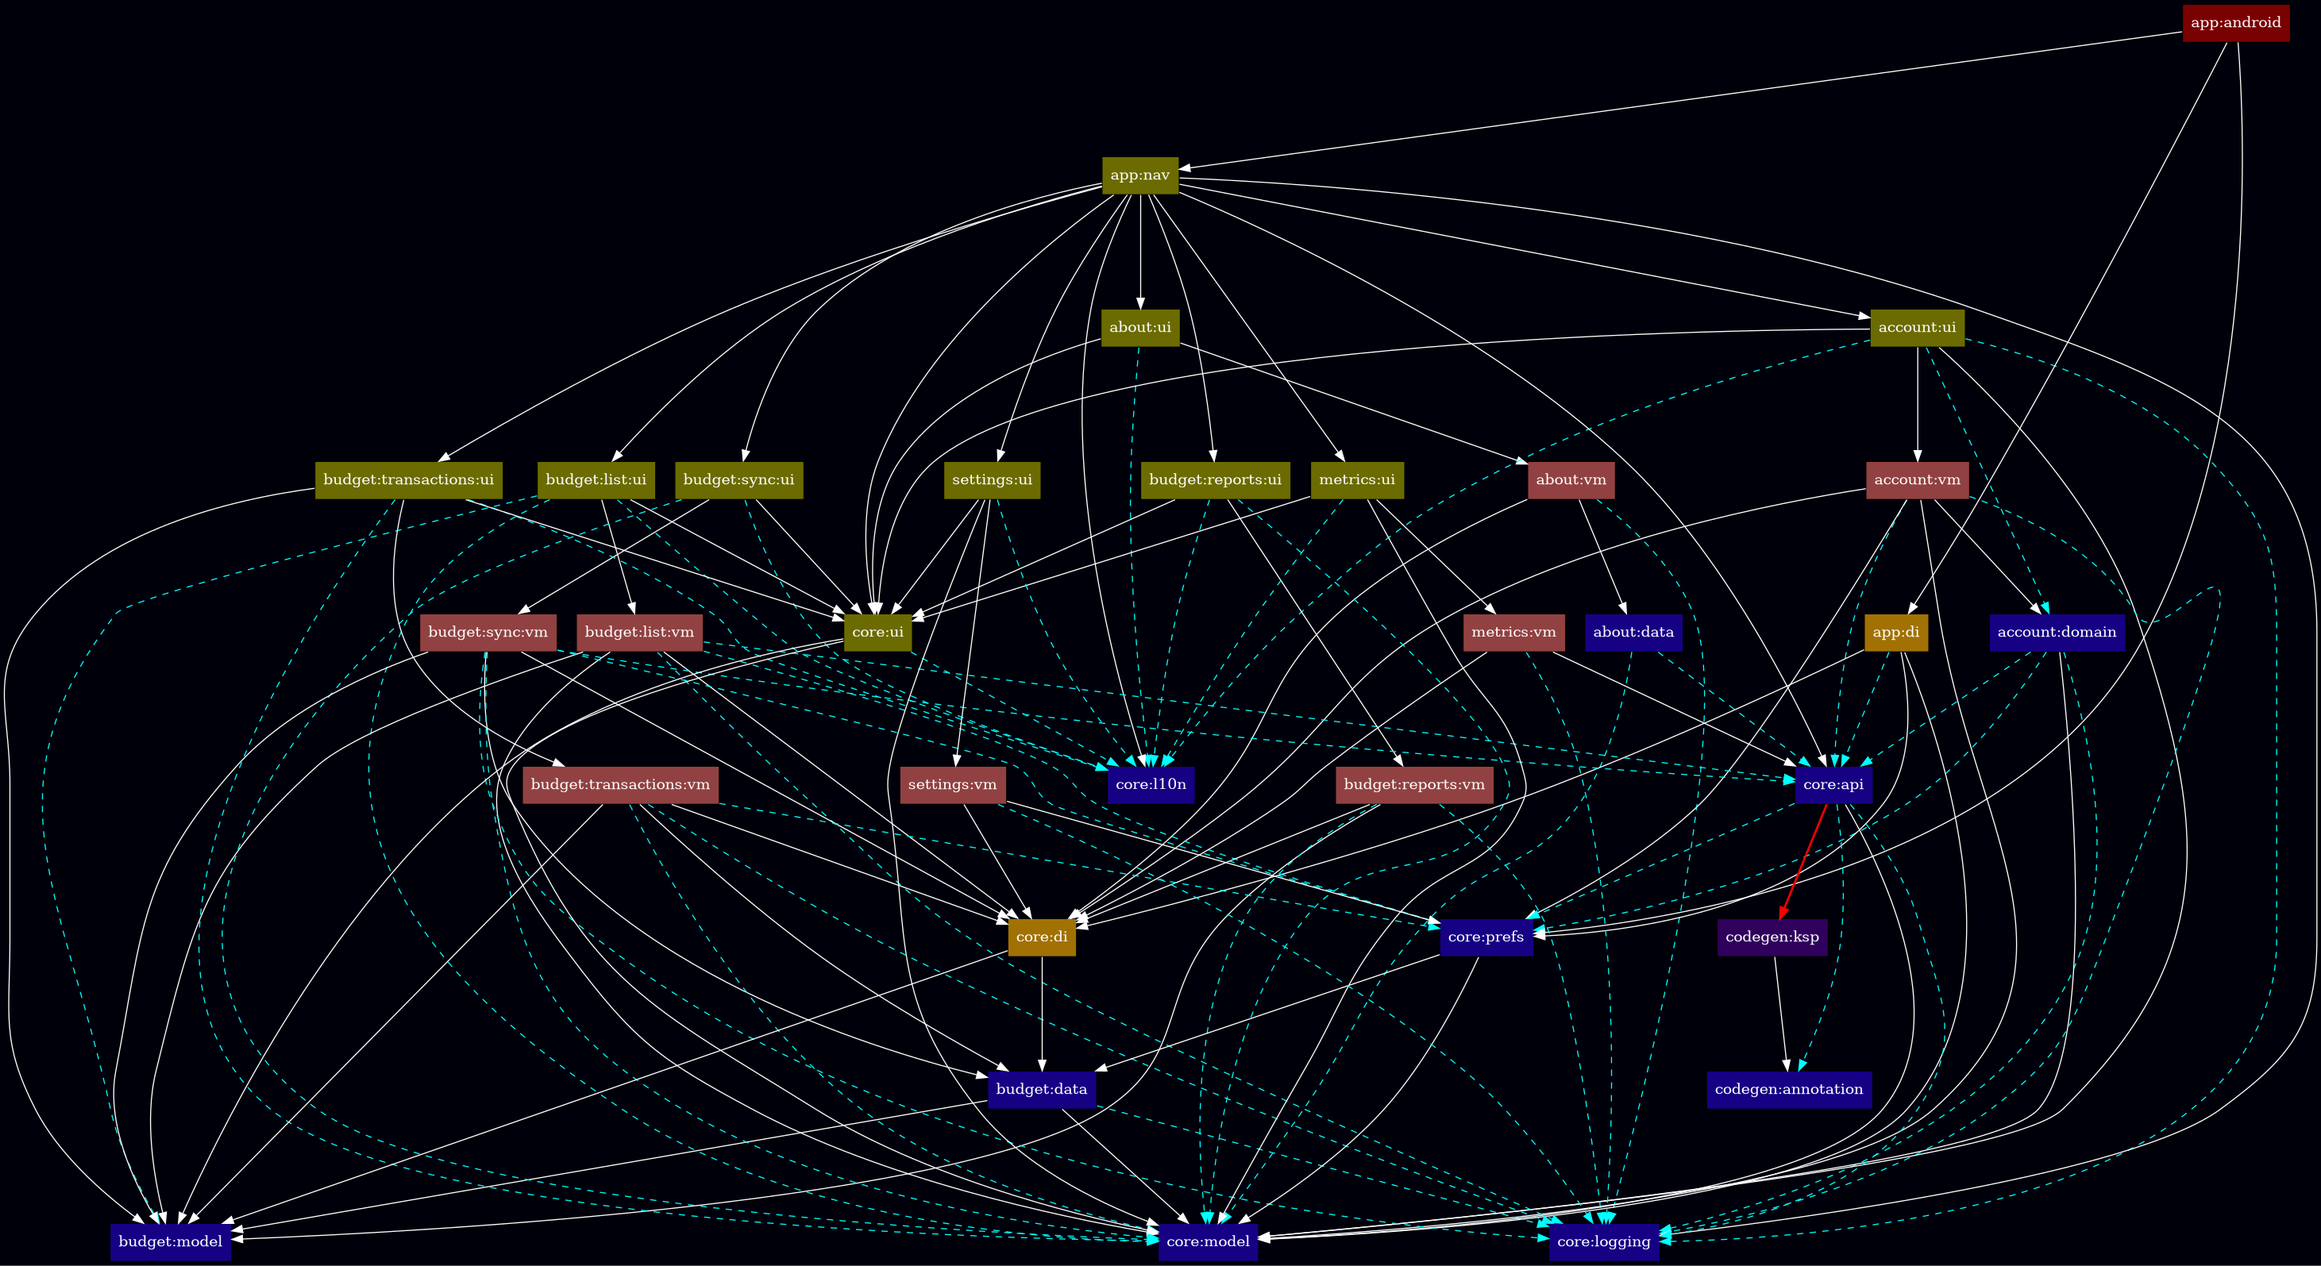
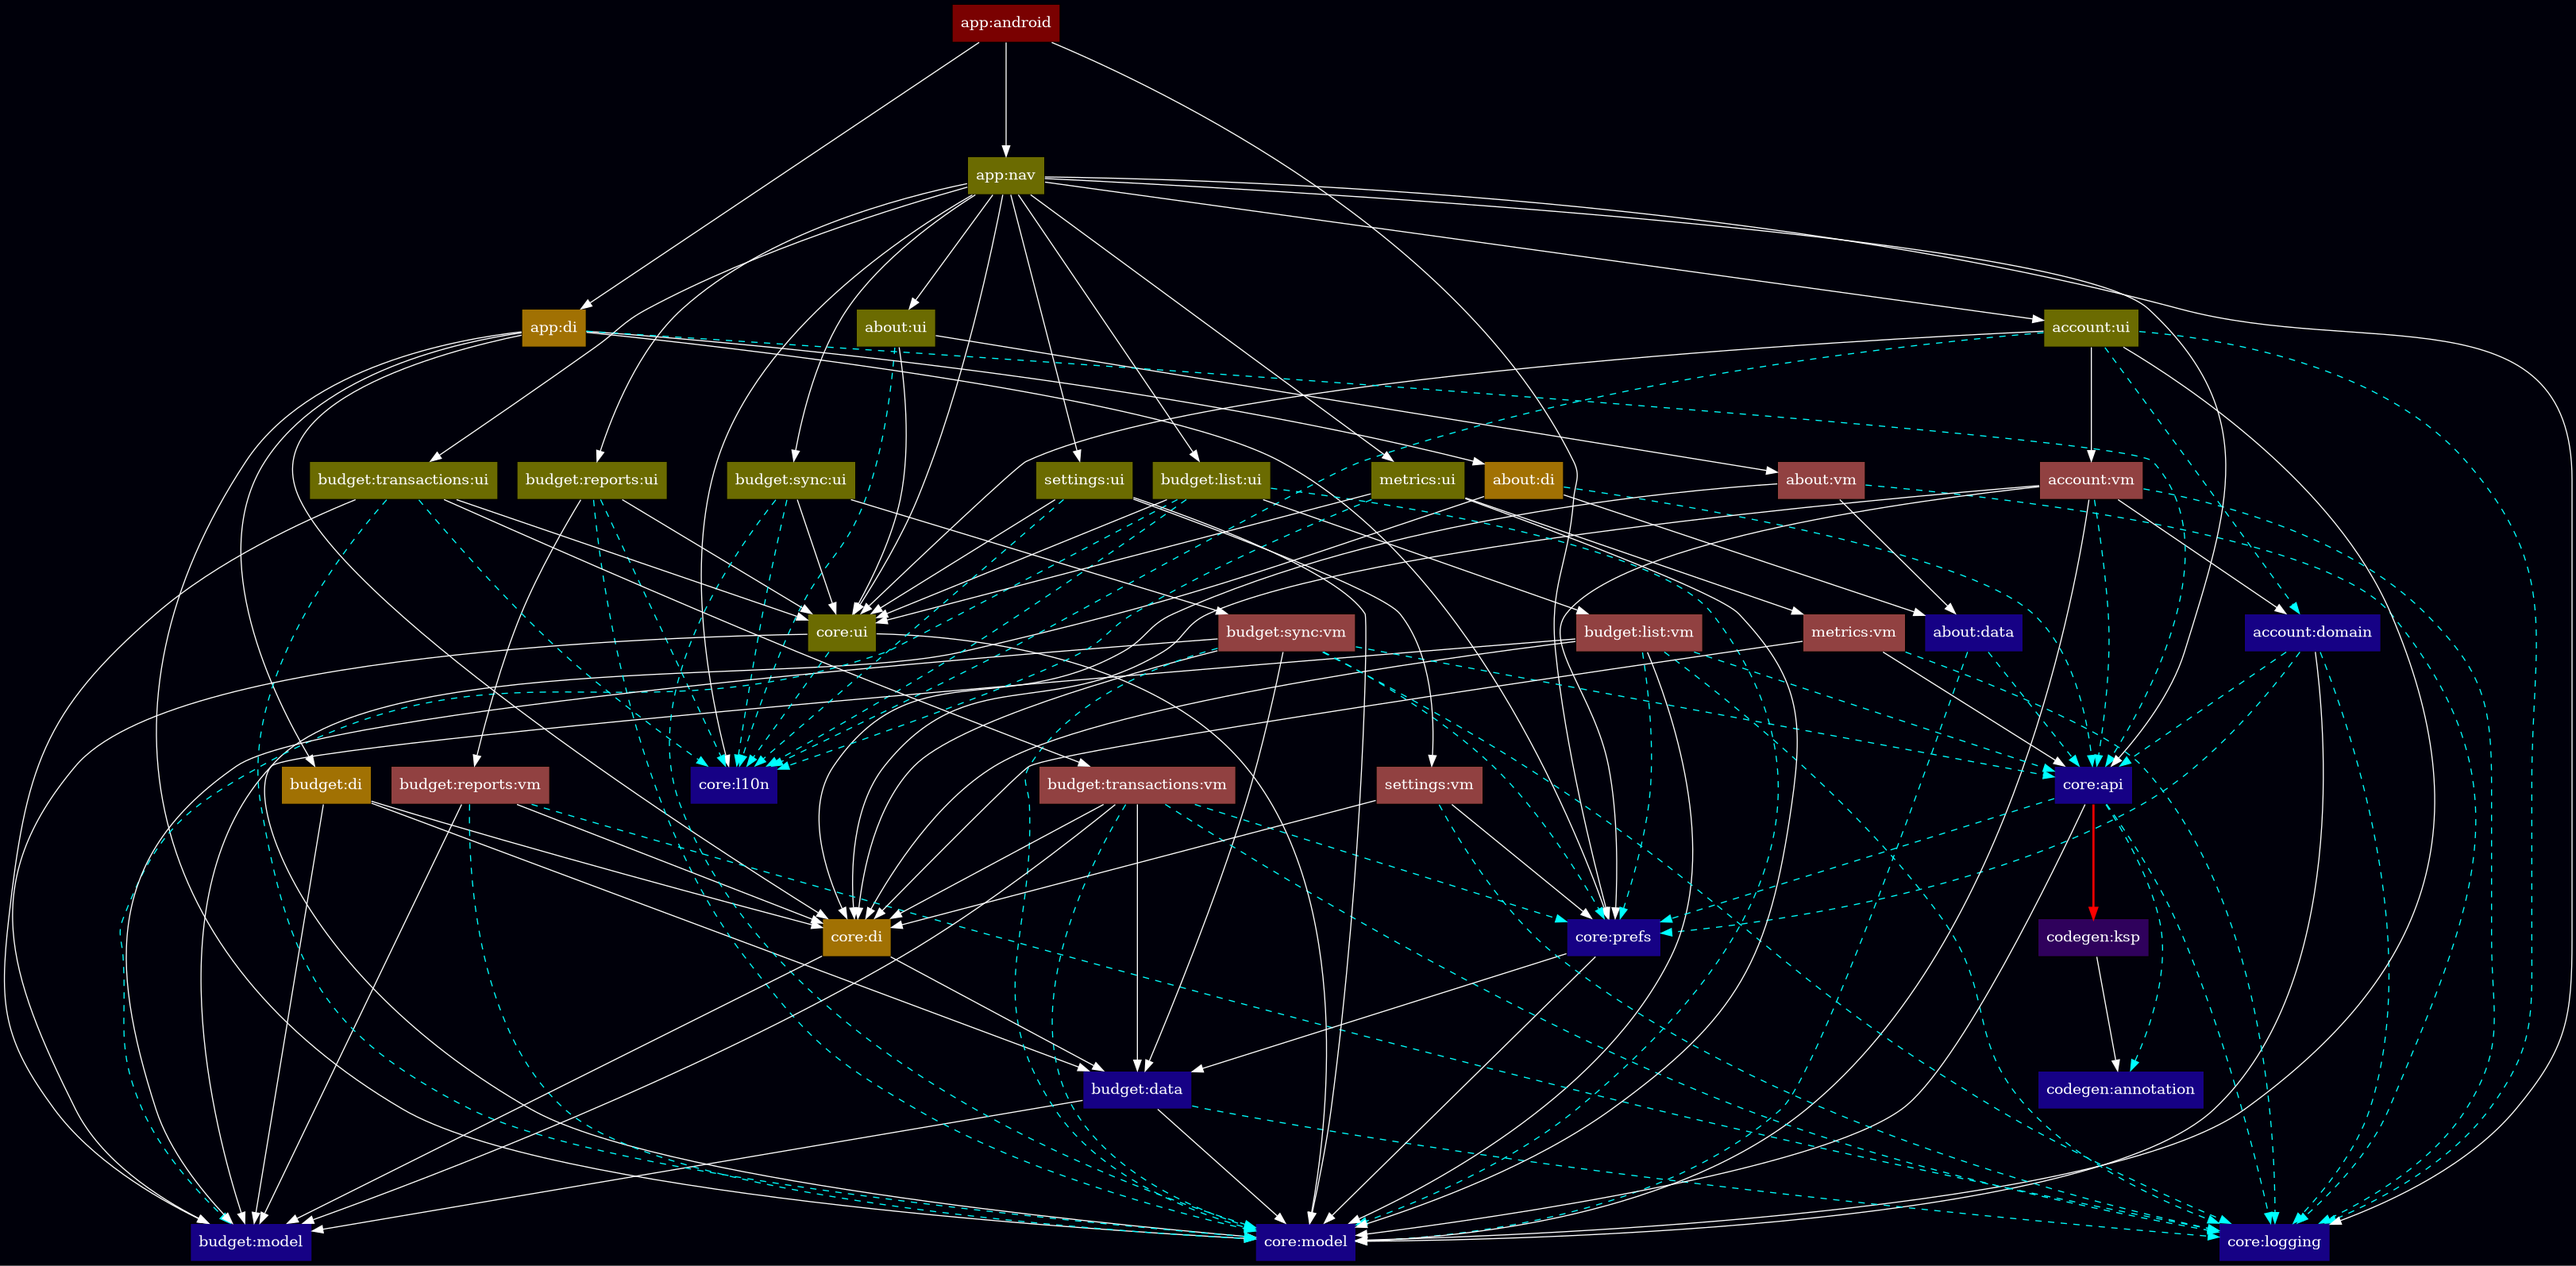
d

diff --git a/aktual-about/data/src/commonMain/kotlin/aktual/about/data/GithubApi.kt b/aktual-about/data/src/commonMain/kotlin/aktual/about/data/GithubApi.kt
@@ -1,11 +1,5 @@
 package aktual.about.data
 
-import aktual.core.api.buildKtorClient
-import aktual.core.model.BuildConfig
-import dev.zacsweers.metro.AppScope
-import dev.zacsweers.metro.BindingContainer
-import dev.zacsweers.metro.ContributesTo
-import dev.zacsweers.metro.Provides
 import io.ktor.client.HttpClient
 import io.ktor.client.call.body
 import io.ktor.client.request.get
@@ -17,7 +11,7 @@ import kotlinx.serialization.Serializable
 import kotlinx.serialization.json.Json
 import kotlin.time.Instant
 
-internal interface GithubApi {
+interface GithubApi {
   suspend fun getReleases(
     user: String,
     repo: String,
@@ -26,7 +20,7 @@ internal interface GithubApi {
   ): List<GithubRelease>
 }
 
-internal class GithubApiImpl(private val client: HttpClient) : GithubApi {
+class GithubApiImpl(private val client: HttpClient) : GithubApi {
   override suspend fun getReleases(
     user: String,
     repo: String,
@@ -40,28 +34,12 @@ internal class GithubApiImpl(private val client: HttpClient) : GithubApi {
     }
     parameter("per_page", perPage)
     parameter("page", pageNumber)
-  }
-  .body<List<GithubRelease>>()
-}
-
-@BindingContainer
-@ContributesTo(AppScope::class)
-internal object GithubApiContainer {
-  @Provides
-  fun githubApi(
-    buildConfig: BuildConfig,
-  ): GithubApi = GithubApiImpl(
-    client = buildKtorClient(
-      json = GithubJson,
-      tag = "GITHUB",
-      isDebug = buildConfig.isDebug,
-    ),
-  )
+  }.body<List<GithubRelease>>()
 }
 
 private const val GITHUB_URL = "api.github.com"
 
-internal val GithubJson = Json {
+val GithubJson = Json {
   ignoreUnknownKeys = true
 }
 

diff --git a/aktual-budget/transactions/vm/src/androidHostTest/kotlin/aktual/budget/transactions/vm/Assertions.kt b/aktual-budget/transactions/vm/src/androidHostTest/kotlin/aktual/budget/transactions/vm/Assertions.kt
@@ -9,8 +9,7 @@ internal inline fun <reified K : Any, reified V : Any> Assert<LoadResult<K, V>>.
   transform("is a LoadResult.Page") { result ->
     when (result) {
       is Page<K, V> -> result
-      is LoadResult.Error -> expected("Page, got ${result.throwable}")
-      is LoadResult.Invalid -> expected("Page, got Invalid")
+      else -> expected("Page, got $result")
     }
   }
 
@@ -18,7 +17,7 @@ internal fun <K : Any, V : Any> Assert<Page<K, V>>.withData(expected: List<V>) =
   if (page.data != expected) {
     expected("page with data $expected, got ${page.data}")
   }
-  return@transform page
+  page
 }
 
 internal fun <K : Any, V : Any> Assert<Page<K, V>>.withData(vararg expected: V) = withData(expected.toList())
@@ -27,12 +26,12 @@ internal fun <K : Any, V : Any> Assert<Page<K, V>>.withPrevKey(expected: K?) = t
   if (page.prevKey != expected) {
     expected("page with prevKey $expected, got ${page.prevKey}")
   }
-  return@transform page
+  page
 }
 
 internal fun <K : Any, V : Any> Assert<Page<K, V>>.withNextKey(expected: K?) = transform { page ->
   if (page.nextKey != expected) {
     expected("page with nextKey $expected, got ${page.nextKey}")
   }
-  return@transform page
+  page
 }

diff --git a/aktual-about/di/src/commonMain/kotlin/aktual/about/di/GithubApiContainer.kt b/aktual-about/di/src/commonMain/kotlin/aktual/about/di/GithubApiContainer.kt
@@ -1,0 +1,26 @@
+package aktual.about.di
+
+import aktual.about.data.GithubApi
+import aktual.about.data.GithubApiImpl
+import aktual.about.data.GithubJson
+import aktual.core.api.buildKtorClient
+import aktual.core.model.BuildConfig
+import dev.zacsweers.metro.AppScope
+import dev.zacsweers.metro.BindingContainer
+import dev.zacsweers.metro.ContributesTo
+import dev.zacsweers.metro.Provides
+
+@BindingContainer
+@ContributesTo(AppScope::class)
+object GithubApiContainer {
+  @Provides
+  fun githubApi(
+    buildConfig: BuildConfig,
+  ): GithubApi = GithubApiImpl(
+    client = buildKtorClient(
+      json = GithubJson,
+      tag = "GITHUB",
+      isDebug = buildConfig.isDebug,
+    ),
+  )
+}

diff --git a/aktual-about/vm/src/androidHostTest/kotlin/aktual/about/vm/AboutViewModelTest.kt b/aktual-about/vm/src/androidHostTest/kotlin/aktual/about/vm/AboutViewModelTest.kt
@@ -1,5 +1,6 @@
 package aktual.about.vm
 
+import aktual.about.data.GithubRelease
 import aktual.about.data.GithubRepository
 import aktual.about.data.LatestReleaseState
 import aktual.core.model.AktualVersionsStateHolder
@@ -8,7 +9,6 @@ import aktual.test.TestBuildConfig
 import aktual.test.TestInstant
 import aktual.test.assertThatNextEmissionIsEqualTo
 import app.cash.turbine.test
-import github.api.model.GithubRelease
 import io.mockk.coEvery
 import io.mockk.confirmVerified
 import io.mockk.mockk

diff --git a/aktual-core/di/src/androidHostTest/kotlin/aktual/core/di/BudgetGraphHolderTest.kt b/aktual-core/di/src/androidHostTest/kotlin/aktual/core/di/BudgetGraphHolderTest.kt
@@ -1,12 +1,11 @@
 package aktual.core.di
 
-import aktual.app.di.GithubApiContainer
+import aktual.about.di.GithubApiContainer
 import aktual.budget.db.withResult
 import aktual.budget.db.withoutResult
 import aktual.budget.model.BankId
 import aktual.budget.model.BudgetId
 import aktual.budget.model.DbMetadata
-import aktual.core.di.CoroutineContainer
 import aktual.test.messageContains
 import alakazam.kotlin.core.CoroutineContexts
 import alakazam.test.core.TestCoroutineContexts

diff --git a/aktual-budget/transactions/vm/src/androidHostTest/kotlin/aktual/budget/transactions/vm/TransactionsViewModelTest.kt b/aktual-budget/transactions/vm/src/androidHostTest/kotlin/aktual/budget/transactions/vm/TransactionsViewModelTest.kt
@@ -1,6 +1,6 @@
 package aktual.budget.transactions.vm
 
-import aktual.app.di.GithubApiContainer
+import aktual.about.di.GithubApiContainer
 import aktual.budget.db.dao.TransactionsDao
 import aktual.budget.model.AccountId
 import aktual.budget.model.AccountSpec

diff --git a/aktual-budget/di/src/commonMain/kotlin/aktual/budget/di/BudgetDatabaseContainer.kt b/aktual-budget/di/src/commonMain/kotlin/aktual/budget/di/BudgetDatabaseContainer.kt
@@ -1,4 +1,4 @@
-package aktual.core.di
+package aktual.budget.di
 
 import aktual.budget.db.BudgetDatabase
 import aktual.budget.db.SqlDriverFactory

diff --git a/aktual-budget/di/README.md b/aktual-budget/di/README.md
@@ -1,0 +1,7 @@
+# aktual-budget:di
+
+<!--region chart-->
+![chart](atlas/chart.png)
+
+![legend](../../atlas/legend.png)
+<!--endregion-->

diff --git a/aktual-about/di/README.md b/aktual-about/di/README.md
@@ -1,0 +1,7 @@
+# aktual-about:di
+
+<!--region chart-->
+![chart](atlas/chart.png)
+
+![legend](../../atlas/legend.png)
+<!--endregion-->
